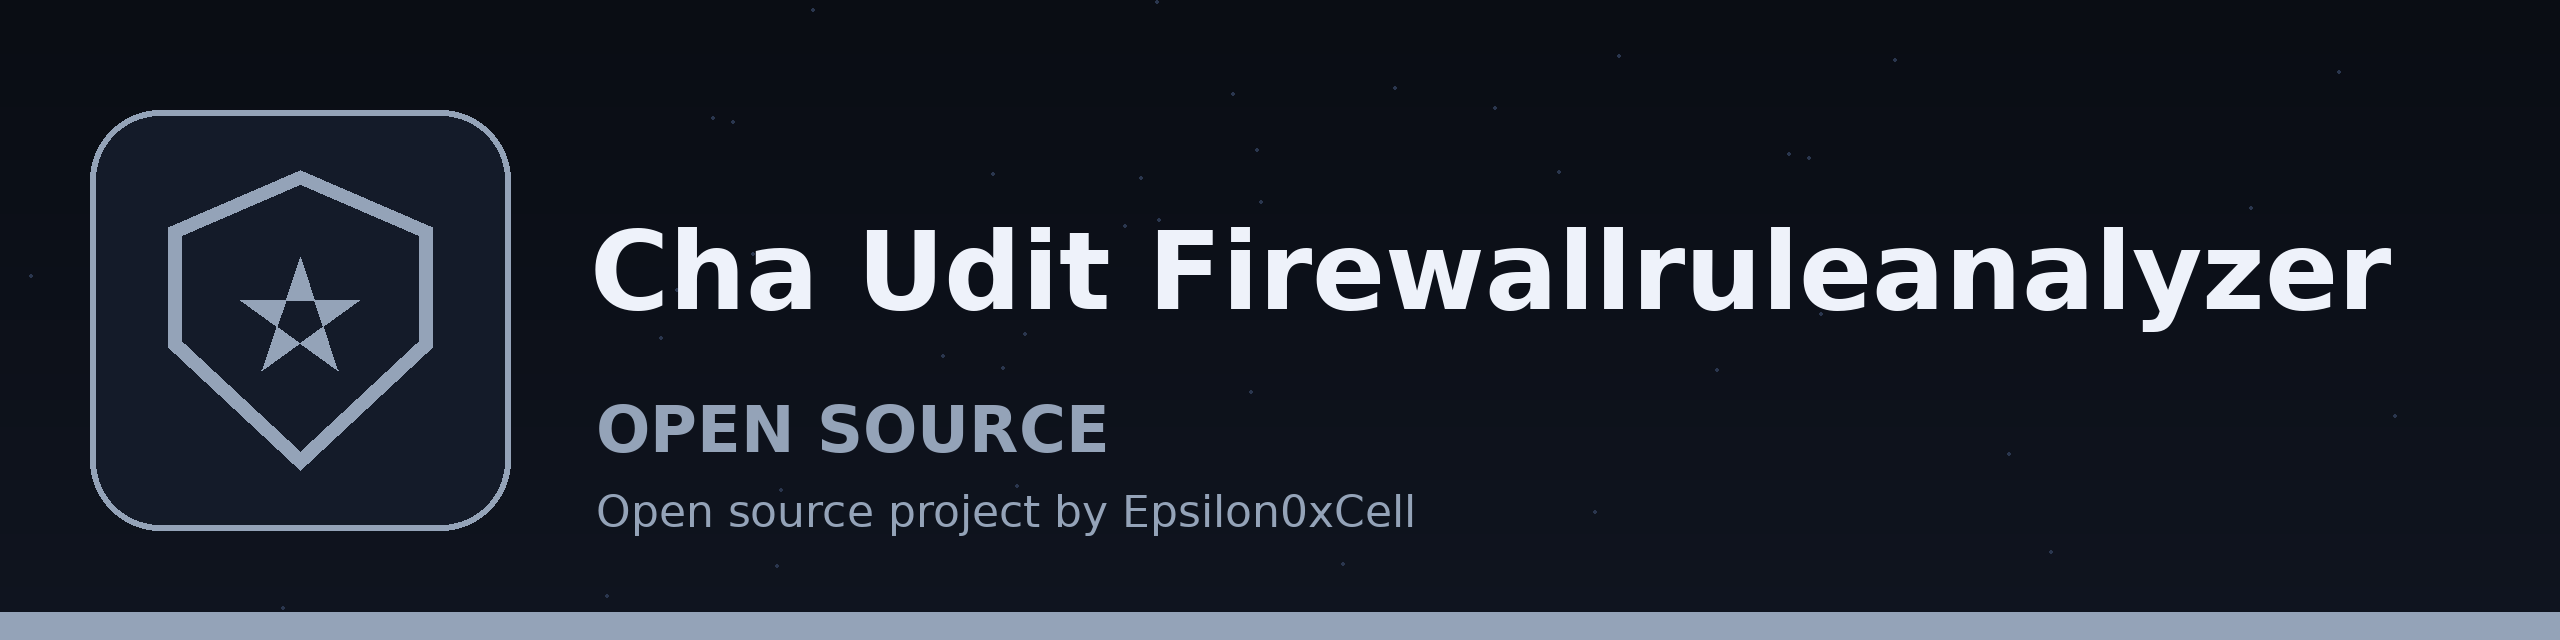
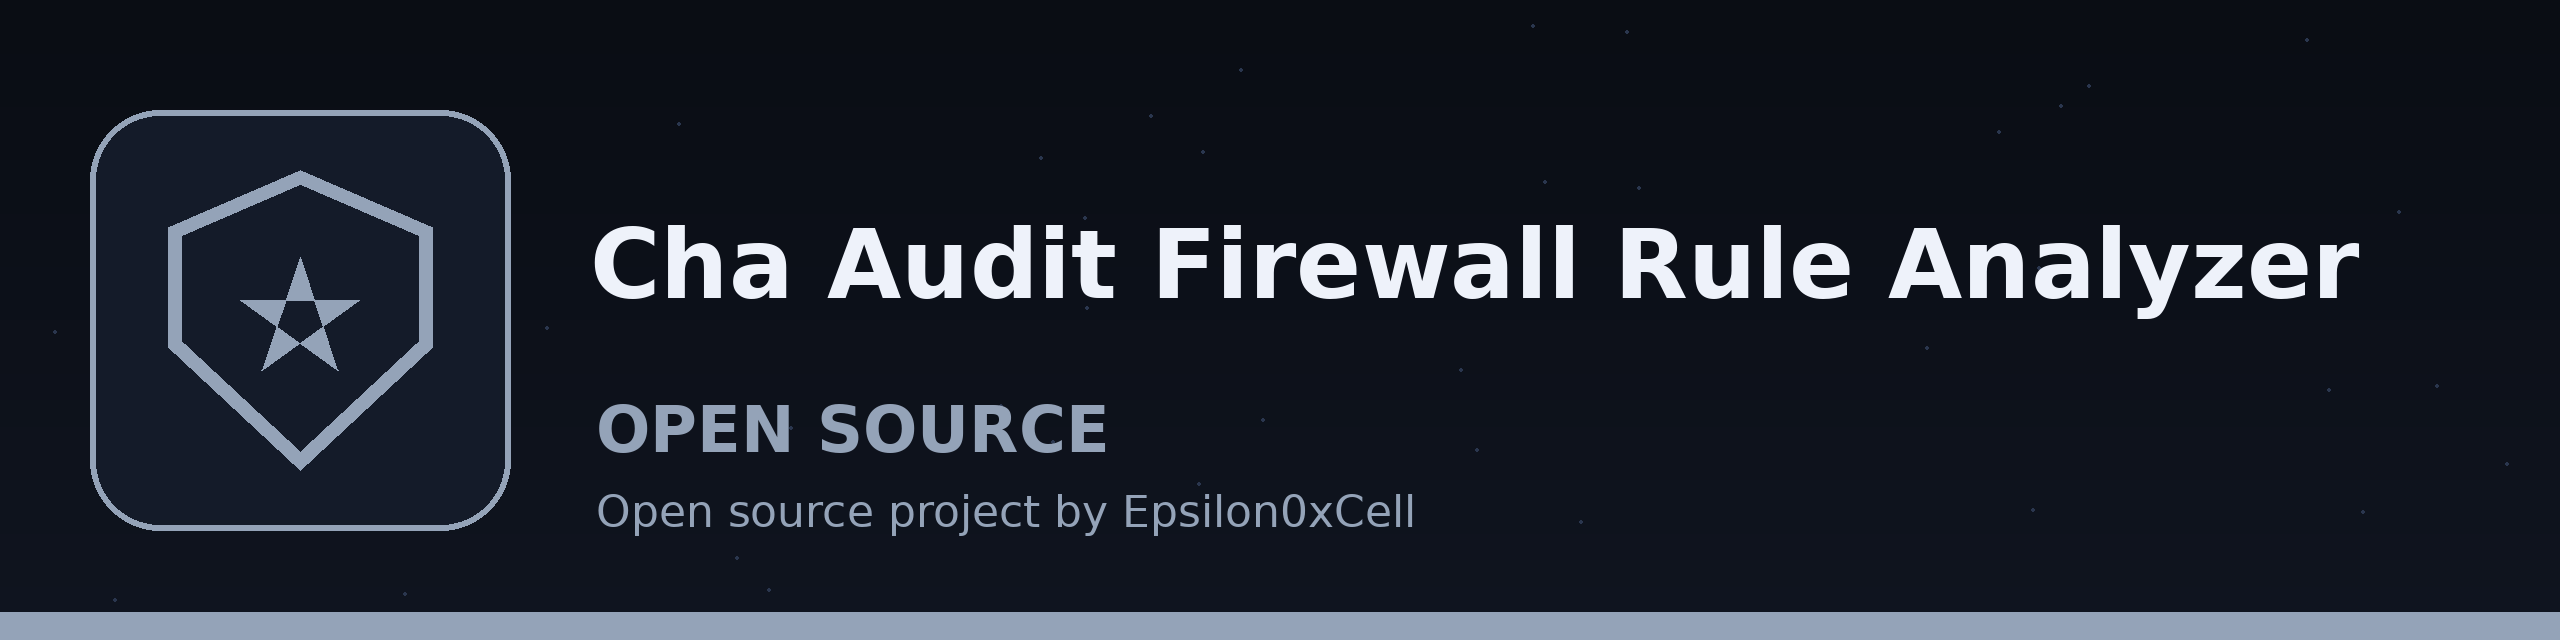
Update branding and README title for rename to cha-audit-firewall-rule-analyzer

Changed region(s): [[0.2188, 0.3438, 0.9375, 0.5312]]

diff --git a/README.md b/README.md
@@ -1,13 +1,13 @@
 ![Banner](banner.png)
 
-# cha-udit-FirewallRuleAnalyzer
+# cha-audit-firewall-rule-analyzer
 Analyzes firewall rules (iptables, firewalld, or Windows Firewall) to identify overly permissive or redundant rules. Uses `iptables-save`, `firewall-cmd --list-all`, or `netsh advfirewall show allprofiles` and processes the output using regular expressions or structured data libraries like `json` when available. - Focused on Utility for auditing system and application configurations against established security baselines (e.g., CIS benchmarks). Supports YAML and JSON configuration files.  Identifies deviations from the security baseline and provides remediation recommendations, helping to reduce attack surface and improve security posture.
 
 ## Install
-`git clone https://github.com/ShadowGuardAI/cha-udit-firewallruleanalyzer`
+`git clone https://github.com/ShadowGuardAI/cha-audit-firewall-rule-analyzer`
 
 ## Usage
-`./cha-udit-firewallruleanalyzer [params]`
+`./cha-audit-firewall-rule-analyzer [params]`
 
 ## Parameters
 - `-h`: Show help message and exit
